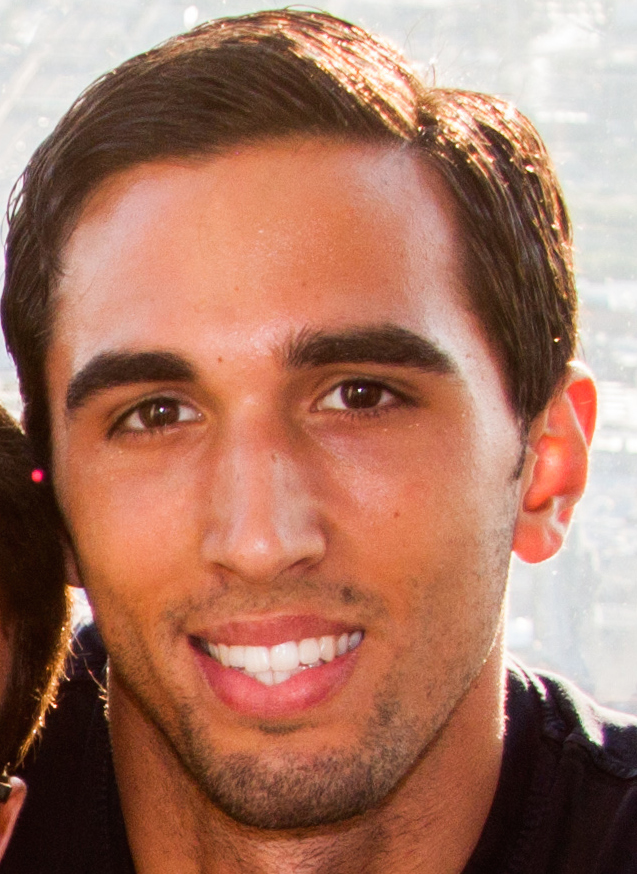
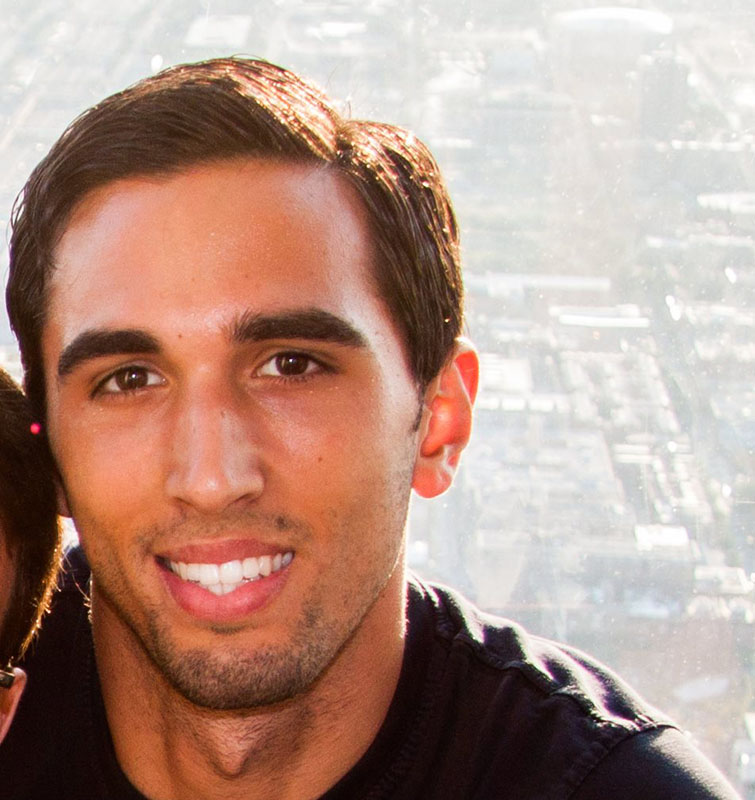
Added personal image and project description.

diff --git a/doc/team.htm b/doc/team.htm
@@ -1,49 +1,58 @@
 <!DOCTYPE html>
 <!-- saved from url=(0038)http://getbootstrap.com/examples/grid/ -->
-<html lang="en"><head><meta http-equiv="Content-Type" content="text/html; charset=UTF-8">
-		<meta charset="utf-8">
-		<meta http-equiv="X-UA-Compatible" content="IE=edge">
-		<meta name="viewport" content="width=device-width, initial-scale=1">
-		<meta name="description" content="">
-		<meta name="author" content="">
-		<link rel="icon" href="http://getbootstrap.com/favicon.ico">
+<html lang="en">
 
-		<title>Team</title>
+<head>
+    <meta http-equiv="Content-Type" content="text/html; charset=UTF-8">
+    <meta charset="utf-8">
+    <meta http-equiv="X-UA-Compatible" content="IE=edge">
+    <meta name="viewport" content="width=device-width, initial-scale=1">
+    <meta name="description" content="">
+    <meta name="author" content="">
+    <link rel="icon" href="http://getbootstrap.com/favicon.ico">
 
-		<link href="bootstrap.min.css" rel="stylesheet">
-		<link href="grid.css" rel="stylesheet">
-	</head>
+    <title>Team</title>
 
-	<body style="padding-top: 70px;">
+    <link href="bootstrap.min.css" rel="stylesheet">
+    <link href="grid.css" rel="stylesheet">
+</head>
 
-		<nav class="navbar navbar-default navbar-fixed-top" role="navigation">
-	      <div class="container">
-	        <ul class="nav navbar-nav">
-	            <li><a href="index.htm">Home</a></li>
-	            <li class="active"><a href="team.htm">Team</a></li>
-	          </ul>
-	      </div>
-	    </nav>
+<body style="padding-top: 70px;">
 
-		<div class="container">
+    <nav class="navbar navbar-default navbar-fixed-top" role="navigation">
+        <div class="container">
+            <ul class="nav navbar-nav">
+                <li><a href="index.htm">Home</a>
+                </li>
+                <li class="active"><a href="team.htm">Team</a>
+                </li>
+            </ul>
+        </div>
+    </nav>
 
-			<div class="page-header">
-				<h1>Team</h1>
-				<p class="lead">Meet us.</p>
+    <div class="container">
 
-			</div>
-				<div class="col-md-2 col-md-offset-2 text-center" style="background-color: rgba(0,0,0,0); border-color: rgba(0,0,0,0);">
-					<img src="image/gianluca.jpg" class="img-circle img-responsive">
-					<strong>Gianluca Venturini</strong>
-				</div>
-				<div class="col-md-2 col-md-offset-1 text-center" style="background-color: rgba(0,0,0,0); border-color: rgba(0,0,0,0);">
-					<img src="image/gianluca.jpg" class="img-circle img-responsive">
-				</div>
-				<div class="col-md-2 col-md-offset-1 text-center" style="background-color: rgba(0,0,0,0); border-color: rgba(0,0,0,0);">
-					<img src="image/gianluca.jpg" class="img-circle img-responsive">
-				</div>
-			</div>
+        <div class="page-header">
+            <h1>Team</h1>
+            <p class="lead">Meet us.</p>
 
-		</div> <!-- /container -->
-	</body>
+        </div>
+        <div class="col-md-2 col-md-offset-2 text-center" style="background-color: rgba(0,0,0,0); border-color: rgba(0,0,0,0);">
+            <img src="image/gianluca.jpg" class="img-circle img-responsive">
+            <strong>Gianluca Venturini</strong>
+        </div>
+        <div class="col-md-2 col-md-offset-1 text-center" style="background-color: rgba(0,0,0,0); border-color: rgba(0,0,0,0);">
+            <img src="image/matteo.jpg" class="img-circle img-responsive">
+            <strong>Matteo Palvarini</strong>
+
+        </div>
+        <div class="col-md-2 col-md-offset-1 text-center" style="background-color: rgba(0,0,0,0); border-color: rgba(0,0,0,0);">
+            <img src="image/gianluca.jpg" class="img-circle img-responsive">
+        </div>
+    </div>
+
+    </div>
+    <!-- /container -->
+</body>
+
 </html>

diff --git a/doc/index.htm b/doc/index.htm
@@ -33,7 +33,10 @@
 			</div>
 
 			<h3>Project description</h3>
-			<p>We will put a project description here.</p>
+			<p>The application consists in an interactive map of Chicago, with markers which represent the Divvy bikes stations, multiple controls and
+                several charts and visualizations.
+                <br>Its main purpose is to help the user investigate how the Divvy bikes are used, look for general patterns, 
+                and see how particular events affect those patterns.</p>
 
 			<hr>
 
